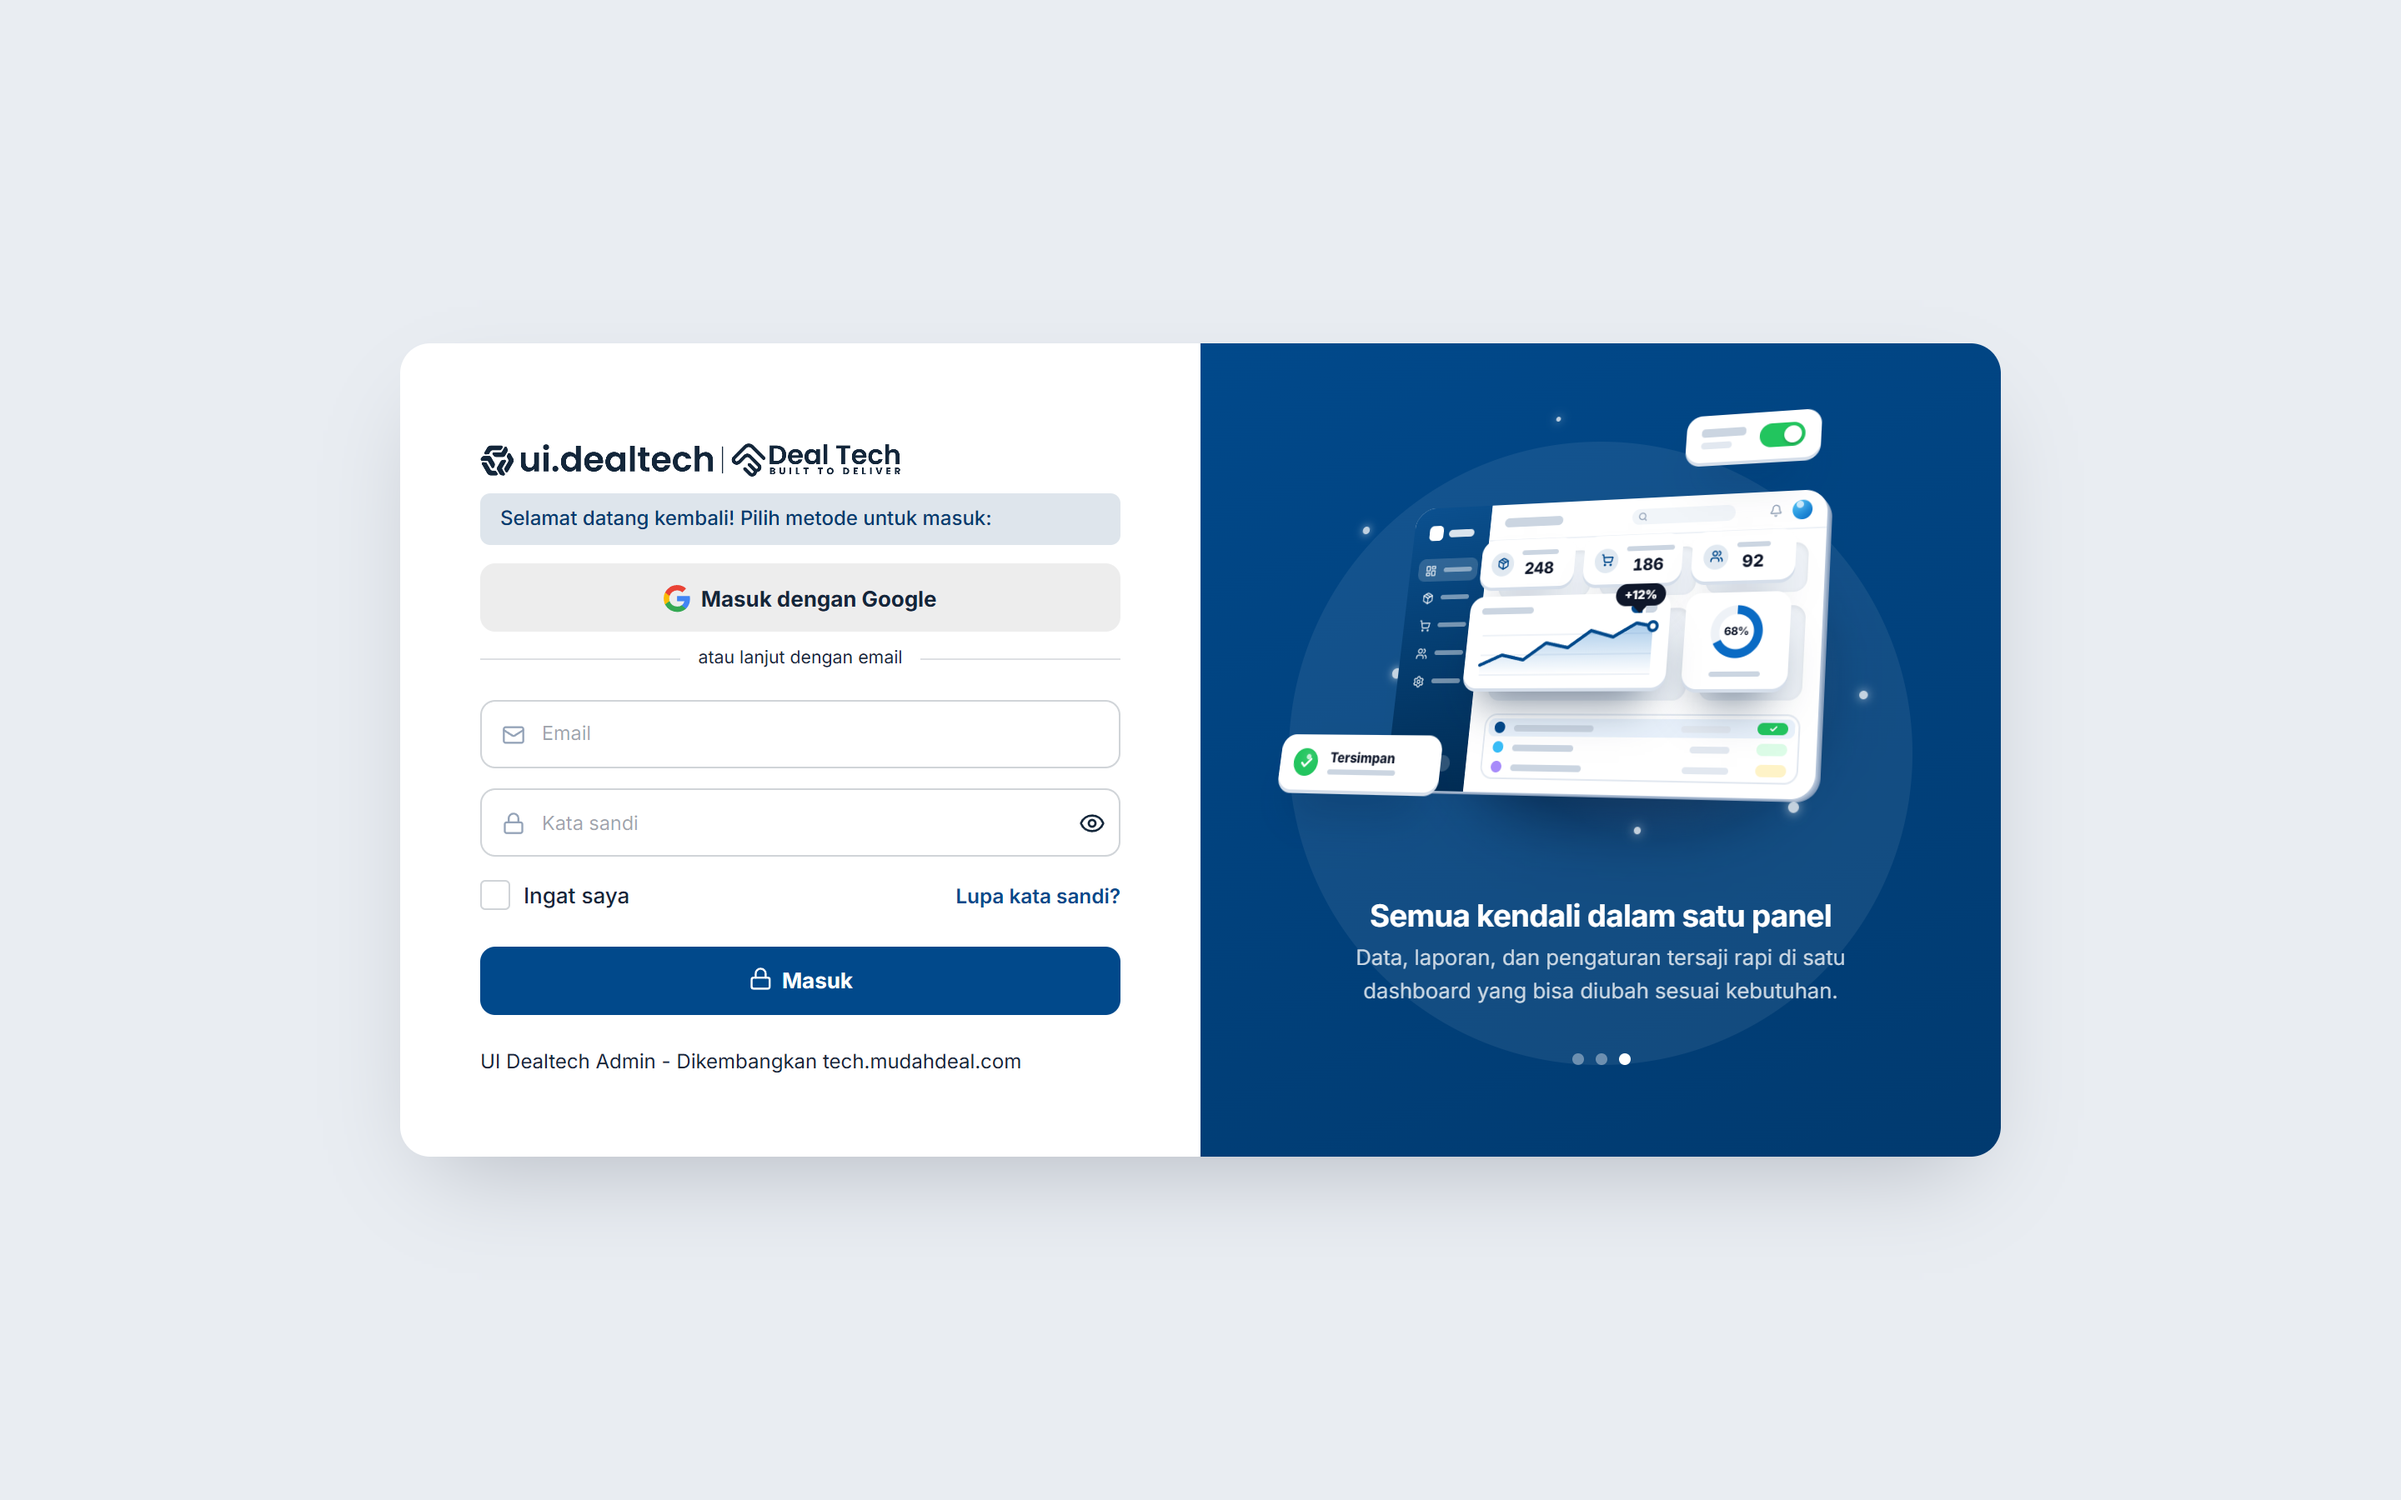
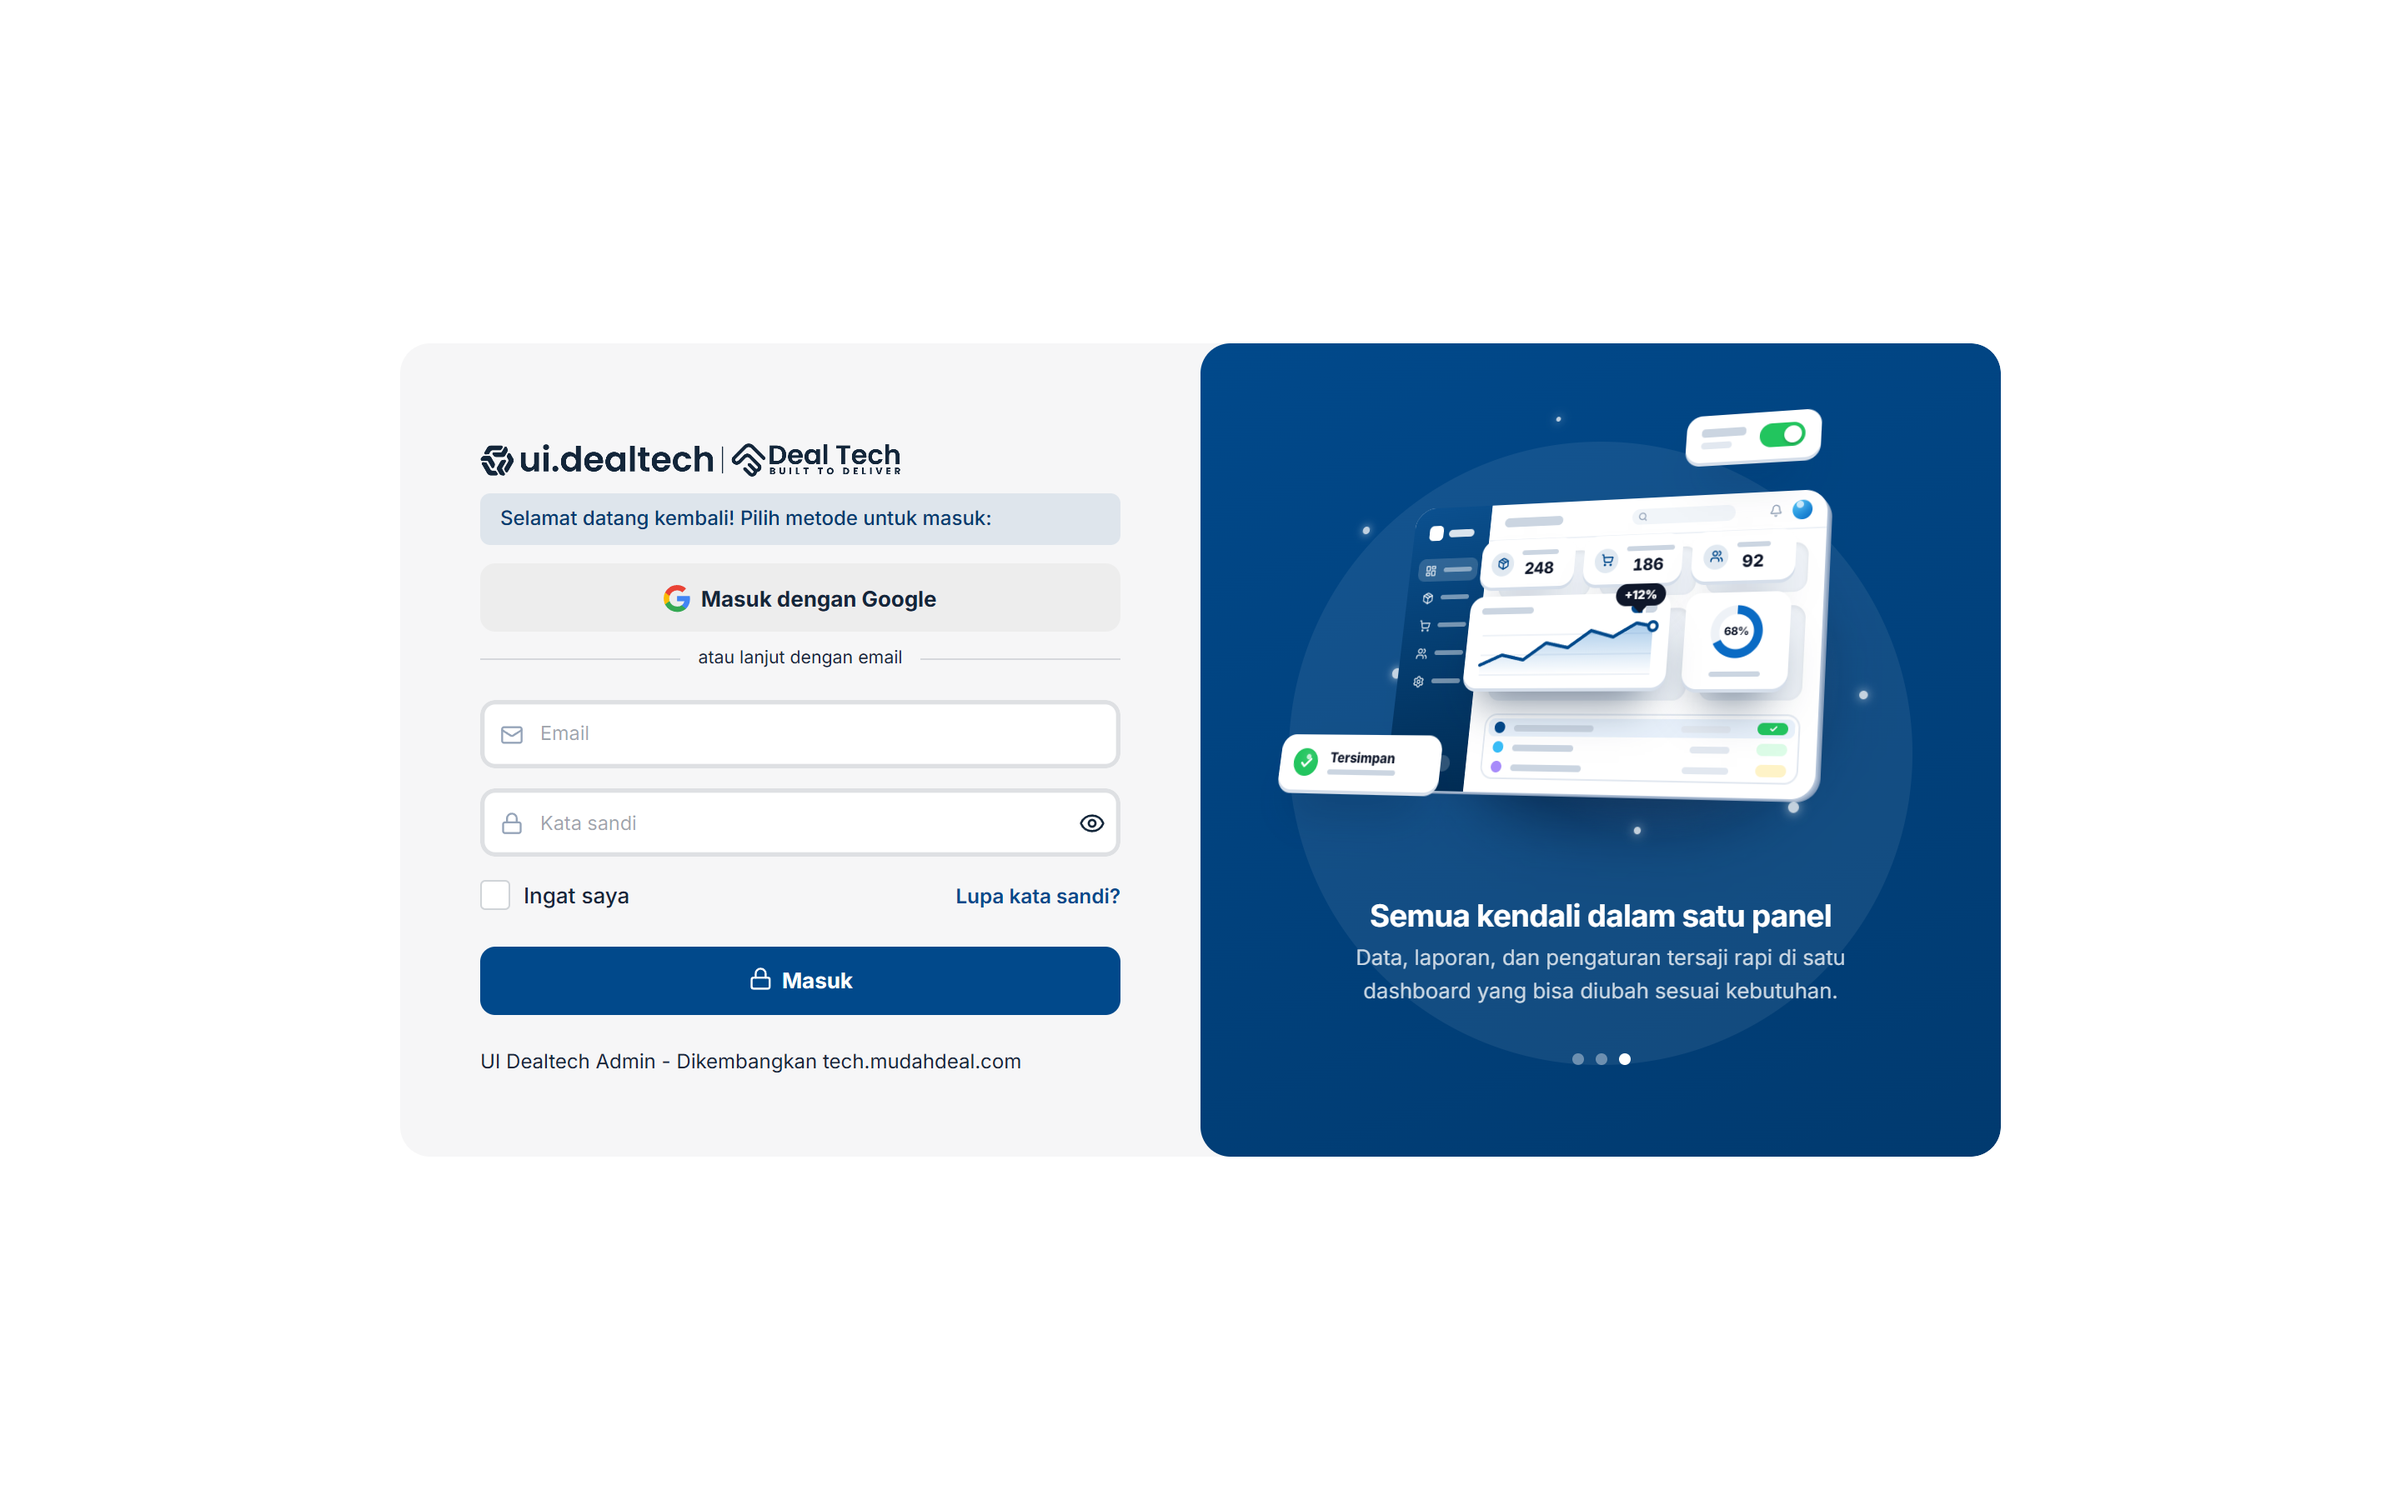
improve v3.1 login with borderless form card, rounded art panel and thicker input border

Changed region(s): [[0.125, 0.2489, 0.875, 0.84], [0.1875, 0.2178, 0.8125, 0.2489]]

diff --git a/templates/starter-v3.1/src/pages/auth/login.css b/templates/starter-v3.1/src/pages/auth/login.css
@@ -6,7 +6,7 @@
   align-items: center;
   justify-content: center;
   padding: 24px;
-  background: #e9edf2;
+  background: var(--app-bg);
 }
 
 .login-shell {
@@ -15,8 +15,8 @@
   grid-template-columns: 1fr 1fr;
   border-radius: 18px;
   overflow: hidden;
-  background: #ffffff;
-  box-shadow: 0 24px 60px -20px rgba(15, 23, 42, 0.25);
+  /* Abu tipis sebagai pembatas */
+  background: var(--app-fill);
 }
 
 /* --- Panel kiri ----------------------------------------------------------- */
@@ -99,14 +99,27 @@
   gap: 12px;
 }
 
+/* Garis isian lebih tebal */
 .login-field .inputtext__field {
+  --login-garis: calc(32px * 2 / 24);
   min-height: 41.4px;
   padding-left: 36px;
+  border: 0;
   border-radius: 9px;
+  box-shadow: inset 0 0 0 var(--login-garis) rgba(var(--color-hitam-rgb), 0.14);
   font-size: 11.7px;
   background-repeat: no-repeat;
   background-position: 11.7px center;
   background-size: 13.5px 13.5px;
+}
+.login-field .inputtext__field:hover,
+.login-field .inputtext__field:focus {
+  box-shadow: inset 0 0 0 var(--login-garis) var(--color-primary);
+}
+.login-field .inputtext__field--error,
+.login-field .inputtext__field--error:hover,
+.login-field .inputtext__field--error:focus {
+  box-shadow: inset 0 0 0 var(--login-garis) var(--app-danger-text);
 }
 
 .login-field--email .inputtext__field {
@@ -252,6 +265,7 @@
   color: #ffffff;
   text-align: center;
   overflow: hidden;
+  border-radius: 18px;
 }
 
 .login-art-panel::before {
@@ -303,6 +317,7 @@
     grid-template-columns: 1fr;
     max-width: 440px;
     margin-inline: auto;
+    background: var(--app-surface);
   }
 
   .login-art-panel {
